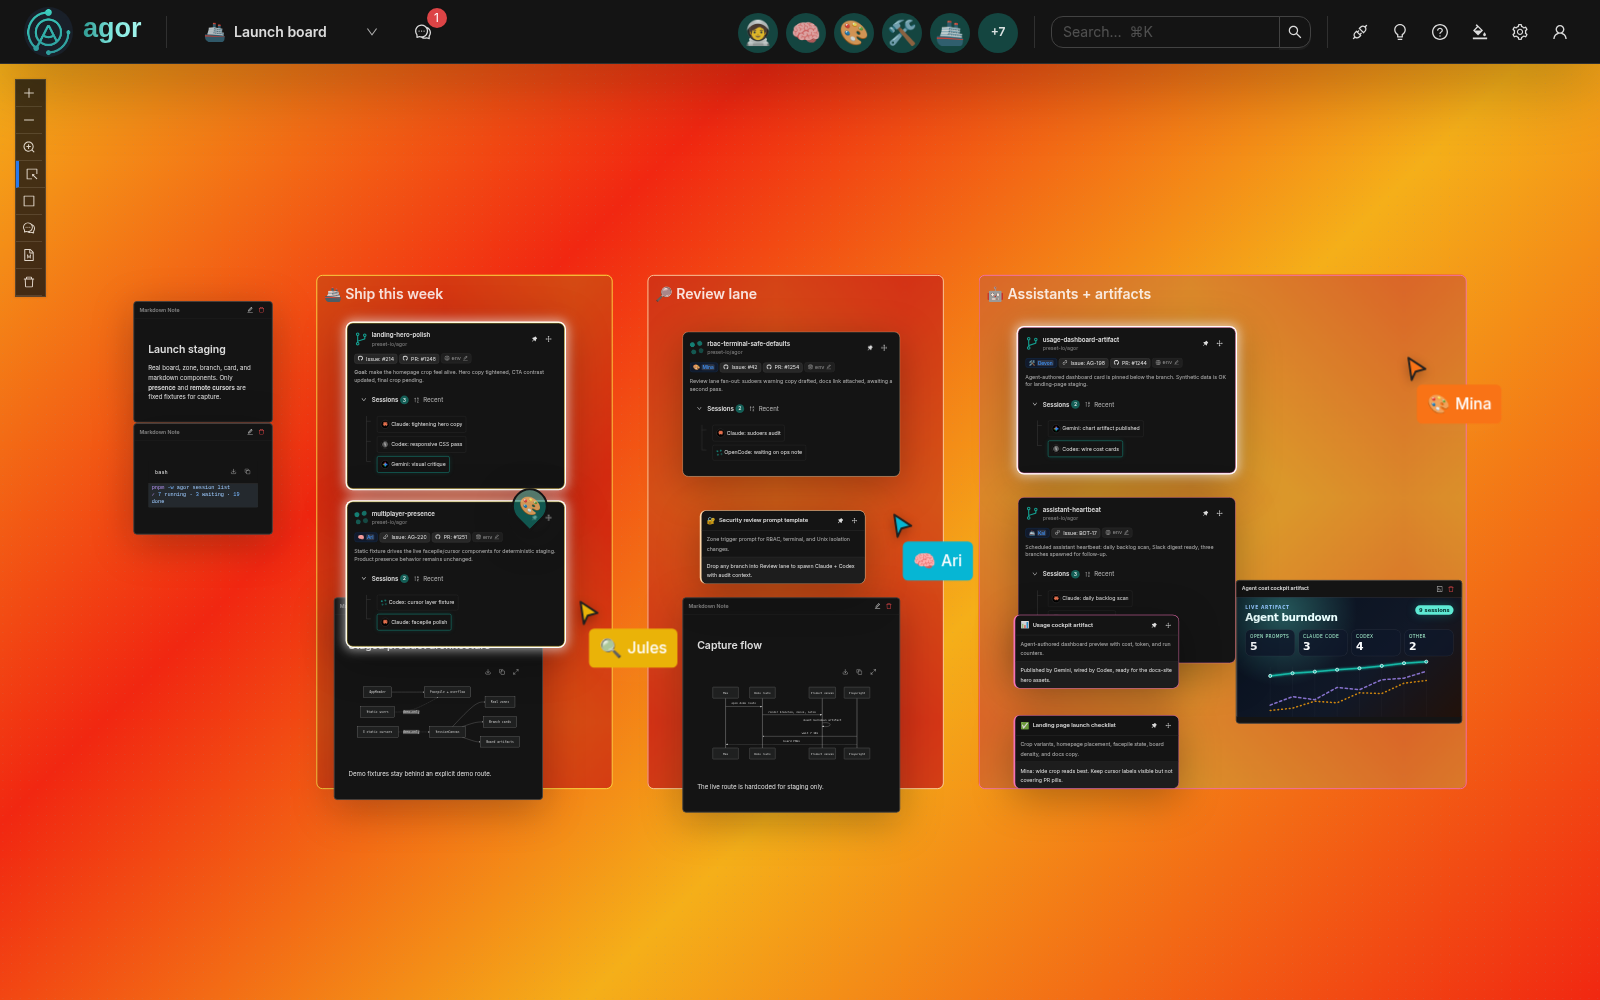
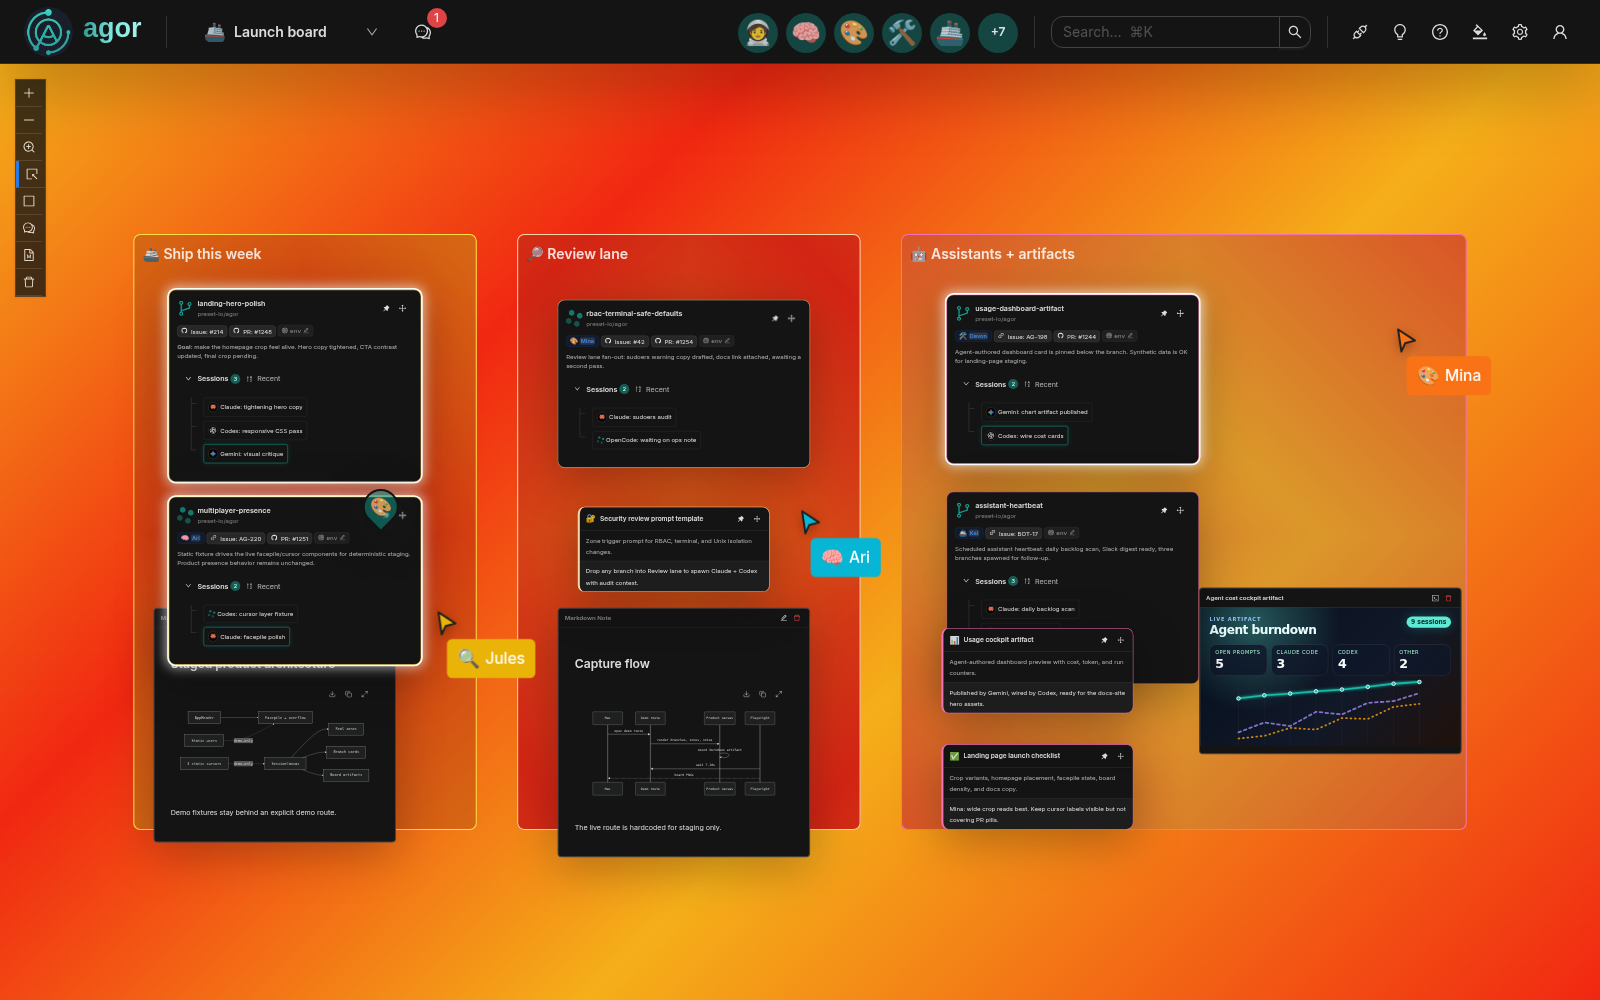
Remove stray markdown staging notes

diff --git a/apps/agor-ui/src/pages/MarketingScreenshotPage.tsx b/apps/agor-ui/src/pages/MarketingScreenshotPage.tsx
@@ -196,21 +196,6 @@ const board: Board = {
         `,
       },
     },
-    'note-launch': {
-      type: 'markdown',
-      x: -360,
-      y: 140,
-      width: 320,
-      content:
-        '### Launch staging\n\nReal board, zone, branch, card, and markdown components. Only **presence** and **remote cursors** are fixed fixtures for capture.',
-    },
-    'note-terminal': {
-      type: 'markdown',
-      x: -360,
-      y: 420,
-      width: 320,
-      content: '```bash\npnpm -w agor session list\n✓ 7 running · 3 waiting · 19 done\n```',
-    },
     'note-architecture': {
       type: 'markdown',
       x: 100,
